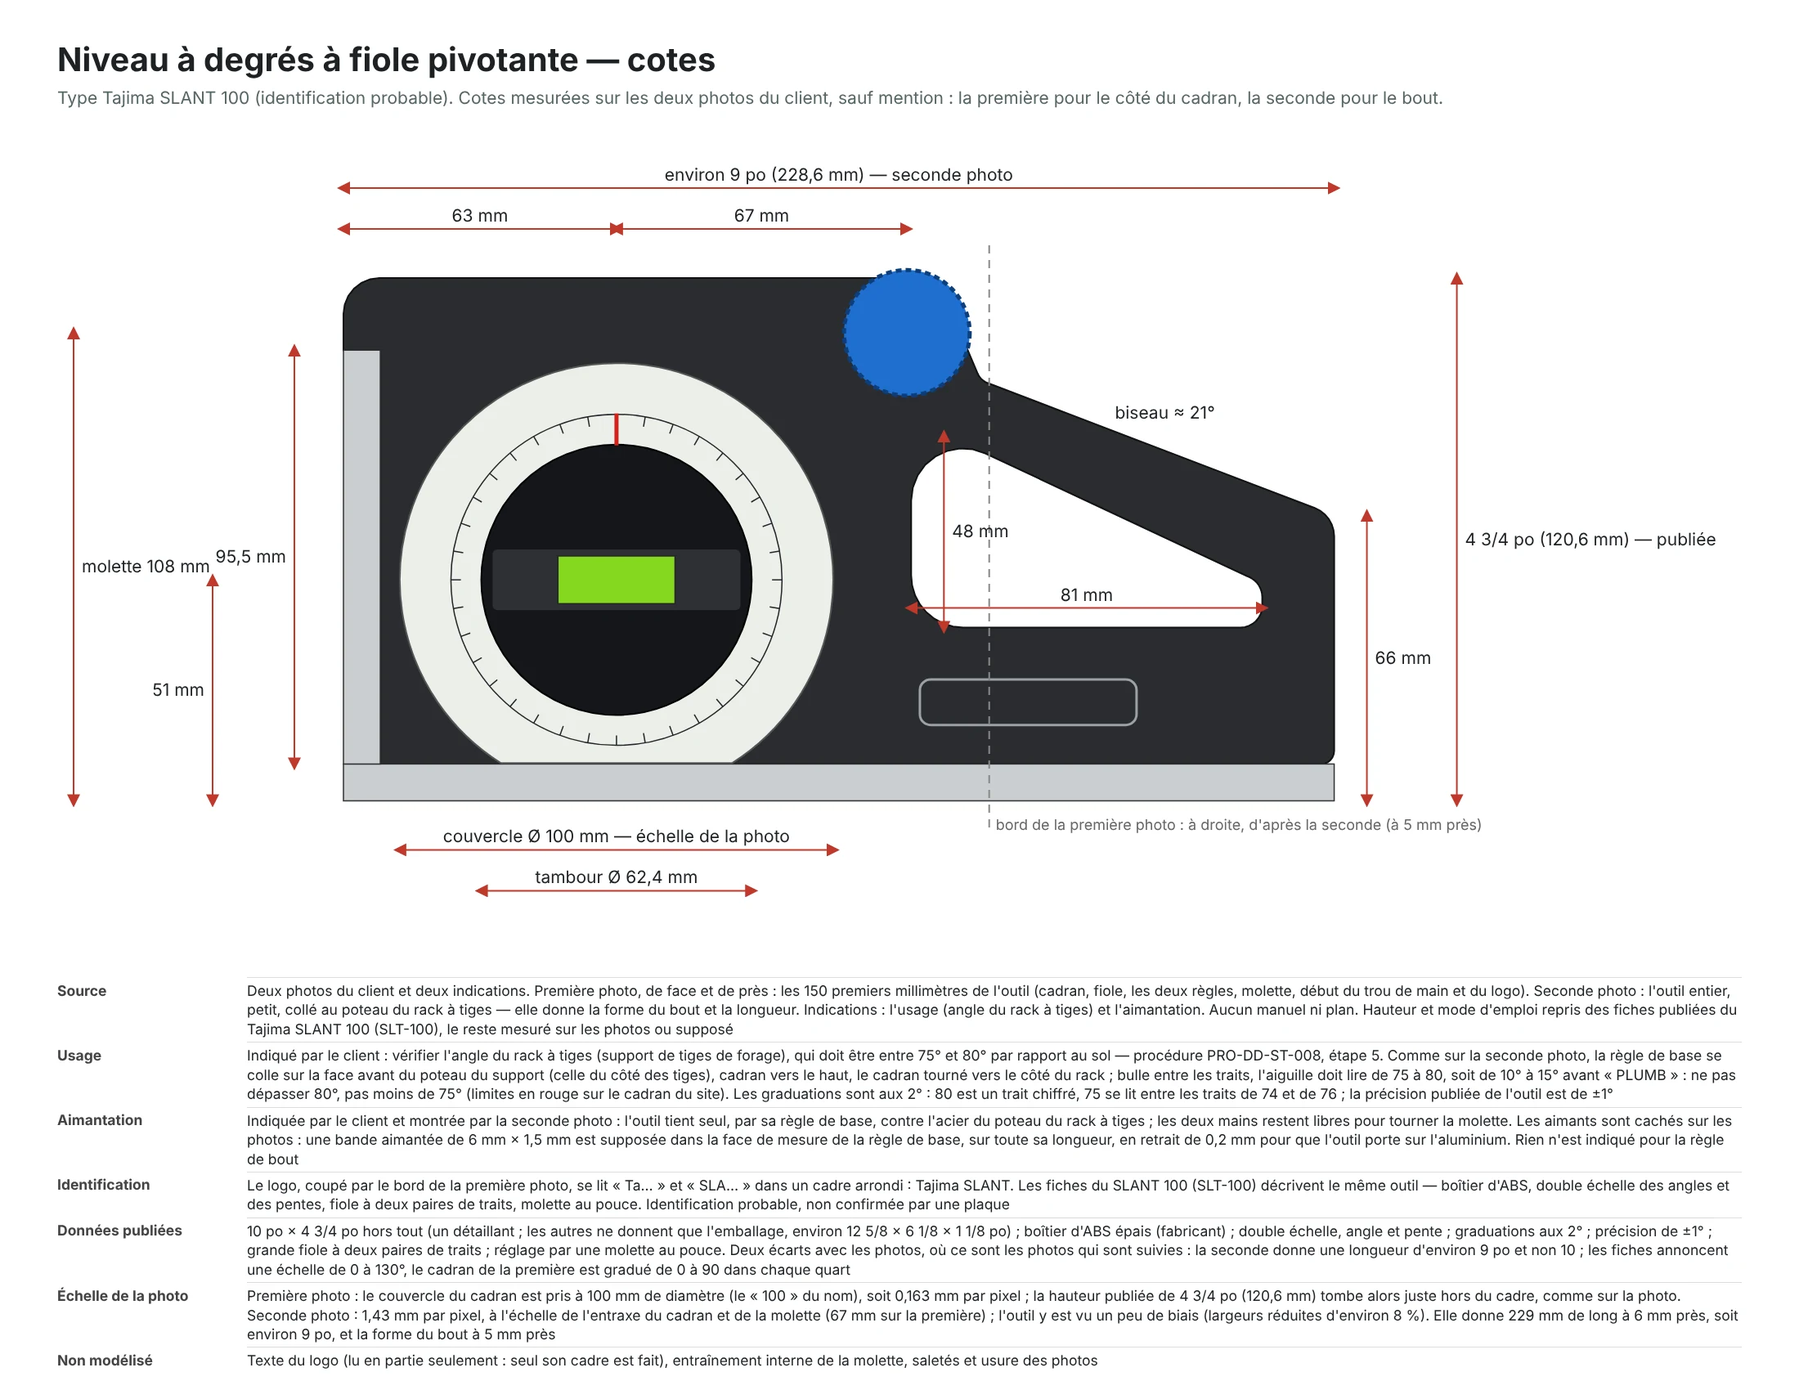
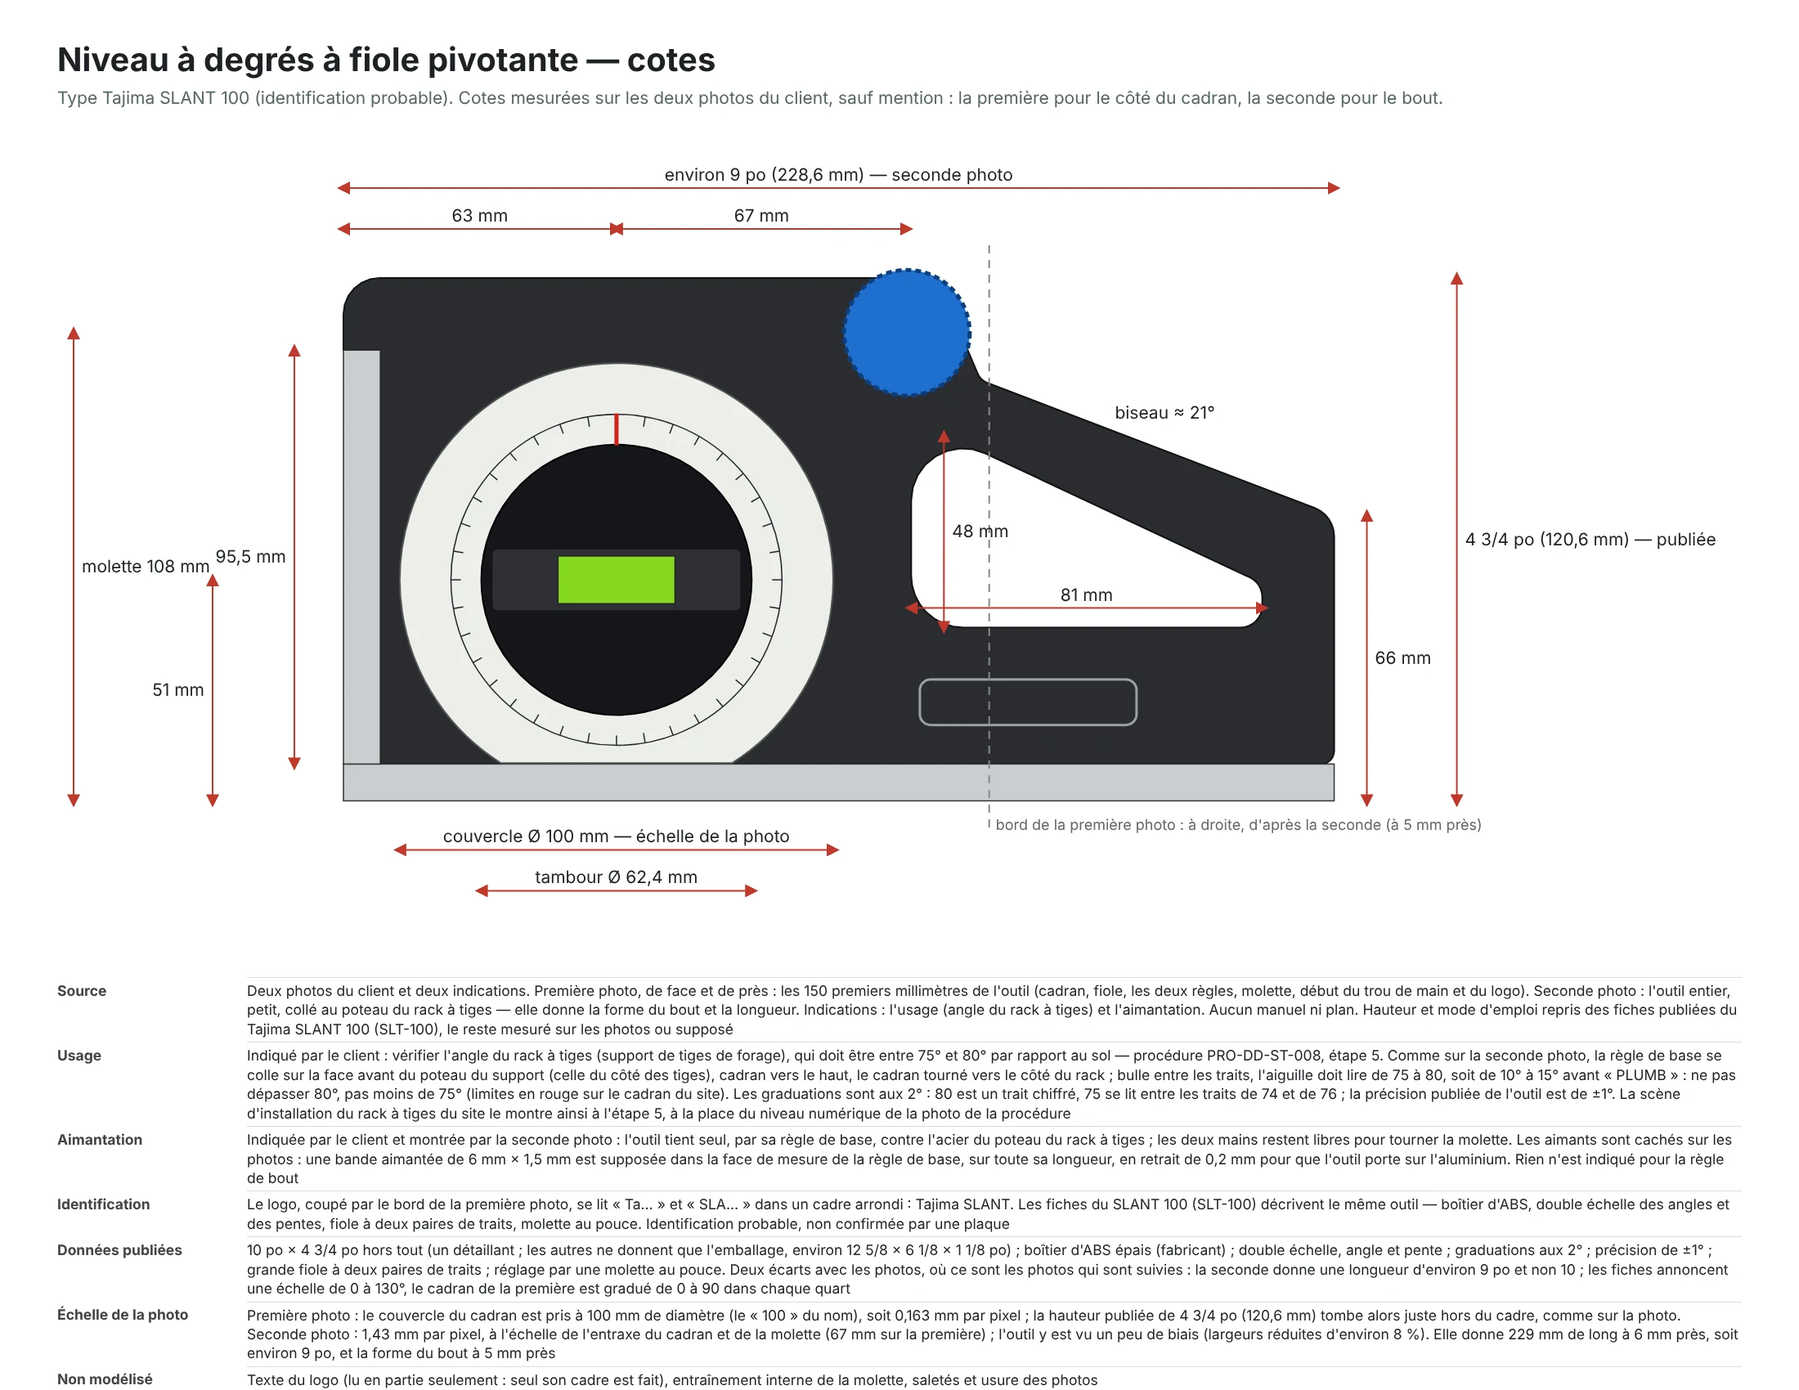
Rack à tiges, étape 5 : le niveau à degrés aimanté collé au poteau, comme sur la photo du client
Choix du client : à l'étape 5 de l'installation (« Vérifier l'angle »), le
niveau à degrés de l'équipement « niveau-a-degres » remplace le niveau
numérique de la photo de la procédure. Il est collé par sa règle de base sur
la face avant du poteau de gauche, cadran vers le haut et tourné vers
l'extérieur du support, à 20 cm sous le crochet de la chaîne de retenue,
comme sur la photo ; son tambour est réglé pour que la fiole soit de niveau
et son aiguille lit les 78° du support.

L'étape se regarde donc du côté gauche, le mur à gauche de l'image : caméra,
zones verte et rouges, rayons et étiquettes d'angle passés de ce côté ; zones
et rayons arrêtés sous l'outil ; étiquette « Niveau aimanté, collé au
poteau ». Le niveau numérique et son afficheur sont retirés de reperes.js.

Niveau à degrés : outil() rend l'outil entier d'une seule pièce et niveler()
le met de niveau une fois posé (tambour, molette, bulle), en retournant
l'angle lu ; P01 passe par la même liste de pièces.

Contrôle : scripts/check-rack.mjs vérifie l'angle lu par le niveau (78,00°,
dans la plage de 75° à 80°). Fiches et README des deux équipements.

La vidéo de la procédure du rack montre encore le niveau numérique.

Claude-Session: https://claude.ai/code/session_015N4WsssJZ8LhHWCi7yY3si

Changed region(s): [[0.1236, 0.7794, 0.9582, 0.9976], [0.0309, 0.7794, 0.0927, 0.9976]]

diff --git a/src/models/rack-tiges-dd/installation.js b/src/models/rack-tiges-dd/installation.js
@@ -14,7 +14,8 @@
 import { IN, T2, T15, T25, NQ, SIDE, CLEAR, SPLIT, XP, H_TOP, H_LOW, WALL, FRONT, ANGLE, TILT, SIN, COS, LIFT, W, HOOK, LUG, CHAIN, chainAlong } from './support.js';
 import { WALL_Z, FT5, rockAt, solAt, fromDeck, decor, place, DECK, SEC, DRILL } from './chantier.js';
 import { HOLE, BOLT, LEVER, TENDEUR, eyeBolt, hole, binder, hammerDrill, tournevis } from './outils.js';
-import { cote, pointille, arc, rayon, secteur, fleche, bande, niveau, polar } from './reperes.js';
+import { cote, pointille, arc, rayon, secteur, fleche, bande, polar } from './reperes.js';
+import { outil as niveauDegres, niveler } from '../niveau-a-degres/index.js';
 import { travailleur } from './travailleur.js';
 
 const ROCK_EYE = rockAt(0, FT5); // face de la roche au trou
@@ -67,6 +68,10 @@ const PIED = [LIFT, 0]; // [y, z] du pied du support (sommet de l'angle du suppo
 // Chaîne de retenue : point bas au centre quand elle est lâche (5 pi 2 po) ; sa longueur, l'avance
 // du paquet qu'elle permet et l'angle où elle l'arrête sont calculés à la construction (P02).
 export const RETENUE = { low: 62 * IN, longueur: 0, avance: 0, arret: 0 };
+// Niveau à degrés de l'étape 5 : bout du cadran à 20 cm sous le crochet de la chaîne de retenue, le long du poteau
+// (photo du client) ; angle lu sous son aiguille une fois la fiole de niveau, calculé à la construction (P02).
+const NIVEAU_SOUS_CROCHET = 0.2;
+export const NIVEAU = { lu: 0 };
 
 export function P02(api) {
   const S = api.S;
@@ -193,17 +198,27 @@ export function P02(api) {
   } };
 
   // --------------------------------------------- étape 5 : vérifier l'angle
-  // Niveau numérique sur le poteau (photo de la procédure) ; au pied du poteau,
-  // zone permise de 75° à 80° en vert, trop couché et trop debout en rouge.
-  const lev = niveau(S, `${ANGLE.toFixed(1)}°`);
-  lev.rotation.x = -TILT;
-  guide(S.at(lev, W(XP, 1.36, T2 / 2 + 0.0005)), [5]);
-  const xg = XP + 0.1;
+  // Niveau à degrés aimanté (équipement « niveau-a-degres »), collé au poteau comme sur la photo
+  // du client : règle de base contre la face avant du poteau de gauche, cadran vers le haut et
+  // tourné vers l'extérieur du support, un peu sous le crochet de la chaîne de retenue. Il
+  // remplace le niveau numérique de la photo de la procédure (choix du client). Le tambour est
+  // réglé pour que la fiole soit de niveau : l'aiguille lit l'angle du support. Au pied du
+  // poteau, zone permise de 75° à 80° en vert, trop couché et trop debout en rouge.
+  const lev = niveauDegres(S);
+  const V = (x, y, z) => new api.THREE.Vector3(x, y, z);
+  // Repère de l'outil → repère du support : x vers le bas du poteau, y vers les tiges, z vers l'extérieur (−X) ; puis le support incliné.
+  lev.quaternion.setFromRotationMatrix(new api.THREE.Matrix4().makeBasis(V(0, -1, 0), V(0, 0, 1), V(-1, 0, 0)))
+    .premultiply(new api.THREE.Quaternion().setFromAxisAngle(V(1, 0, 0), -TILT));
+  lev.position.set(...W(-XP, HOOK - NIVEAU_SOUS_CROCHET, T2 / 2 + 0.0005));
+  guide(lev, [5]);
+  NIVEAU.lu = niveler(lev);
+  const xg = -XP - 0.1; // repères d'angle du côté du niveau (à gauche du support, face au mur)
   guide(S.group(
-    secteur(S, xg, PIED, 0.3, 1.15, 62, 75, { material: 'zoneRouge' }),
-    secteur(S, xg, PIED, 0.3, 1.3, 75, 80),
-    secteur(S, xg, PIED, 0.3, 1.15, 80, 90, { material: 'zoneRouge' }),
-    rayon(S, xg, PIED, 1.36, 75, { material: 'repereVert' }), rayon(S, xg, PIED, 1.36, 80, { material: 'repereVert' }),
+    // Zones et rayons arrêtés sous le niveau, collé au poteau à partir de 1,36 m.
+    secteur(S, xg, PIED, 0.3, 1.05, 62, 75, { material: 'zoneRouge' }),
+    secteur(S, xg, PIED, 0.3, 1.16, 75, 80),
+    secteur(S, xg, PIED, 0.3, 1.05, 80, 90, { material: 'zoneRouge' }),
+    rayon(S, xg, PIED, 1.2, 75, { material: 'repereVert' }), rayon(S, xg, PIED, 1.2, 80, { material: 'repereVert' }),
     rayon(S, xg, PIED, 0.85, 0), arc(S, xg, PIED, 0.55, 0, ANGLE),
   ), [5]);
 
@@ -455,7 +470,7 @@ const CAM = {
   site: { pos: [1.6, 2.6, 3.2], tgt: [-0.9, 0.6, 0.5] },
   wall: { pos: [-1.3, 1.7, 1.3], tgt: [-0.05, 1.3, WALL_Z] },
   bolt: { pos: [0.75, 1.65, -0.2], tgt: [0, FT5, WALL_Z] },
-  side: { pos: [3.4, 1.2, -0.2], tgt: [0.8, 1.05, -0.35] },
+  side: { pos: [-3.1, 1.3, -0.1], tgt: [-0.8, 1.12, -0.33] }, // du côté gauche : le mur à gauche de l'image, le cadran du niveau de face (photo du client) ; le front de taille est à x ≈ −3,5
   anchor: { pos: [0.9, 2.5, 0.9], tgt: [0, 1.85, -0.65] },
   top: { pos: [0.3, 5.2, 1.3], tgt: [0, 2.6, -0.3] },
   front: { pos: [-1.6, 1.75, 2.5], tgt: [0, 1.45, 0.2] },
@@ -494,9 +509,10 @@ const NOTES = [
   { steps: [3], tag: '+coupe', pos: [0.03, FT5 - 0.07, ROCK_EYE - (HOLE + BOLT.in) / 2], text: 'Pas jusqu’au fond', kind: 'no' },
   { steps: [3], tag: 'boulon', pos: [0, FT5 + 0.24, EYE[2]], text: 'Pas jusqu’au fond du trou' },
   { steps: [4], tag: 'appui', pos: [0, ARM_END[1] + 0.02, WALL_Z + 0.06], text: 'Pattes du haut bien appuyées au mur', kind: 'ok' },
-  { steps: [5], pos: polar(XP + 0.1, PIED, 0.7, 40), text: `${ANGLE}°` },
-  { steps: [5], pos: polar(XP + 0.1, PIED, 1.46, 73.2), text: '75°', kind: 'ok' },
-  { steps: [5], pos: polar(XP + 0.1, PIED, 1.46, 81.8), text: '80°', kind: 'ok' },
+  { steps: [5], pos: polar(-XP - 0.1, PIED, 0.7, 40), text: `${ANGLE}°` },
+  { steps: [5], pos: polar(-XP - 0.1, PIED, 1.26, 72.4), text: '75°', kind: 'ok' },
+  { steps: [5], pos: polar(-XP - 0.1, PIED, 1.26, 82.6), text: '80°', kind: 'ok' },
+  { steps: [5], pos: W(-XP - 0.02, HOOK - NIVEAU_SOUS_CROCHET + 0.1, T2 / 2 + 0.26), text: 'Niveau aimanté, collé au poteau' },
   { steps: [6], pos: [0, FT5 + 0.26, EYE[2]], text: 'Jusqu’au milieu de la chaîne' },
   { steps: [7], tag: 'oeilD', pos: [XP + 0.2, W(0, LUG, 0)[1] + 0.2, W(0, LUG, -0.08)[2]], text: "De l'extérieur vers l'intérieur" },
   { steps: [7], tag: 'oeilG', pos: [-XP - 0.2, W(0, LUG, 0)[1] + 0.2, W(0, LUG, -0.08)[2]], text: "De l'extérieur vers l'intérieur" },

diff --git a/src/models/niveau-a-degres/index.js b/src/models/niveau-a-degres/index.js
@@ -27,7 +27,9 @@
 // L'outil fonctionne (src/ui/features/niveau-degres.js) : regler() pose
 // l'outil sur une pente, tourne le tambour et la molette ; bulle() donne la
 // place de la bulle dans la fiole ; lecture() l'angle sous l'aiguille ;
-// verdictRack() dit si l'angle lu convient au rack à tiges.
+// verdictRack() dit si l'angle lu convient au rack à tiges. outil() et niveler()
+// posent l'outil entier dans une autre scène : l'étape 5 de l'installation du
+// rack à tiges (src/models/rack-tiges-dd/installation.js), collé au poteau.
 //
 // Repère de l'outil, en millimètres : x le long de la règle de base (0 au bout
 // du cadran), y vers le haut (0 sous la face de mesure), z en travers (0 au
@@ -539,27 +541,69 @@ export function regler(racine, { pente = 0, cadran = 0 } = {}) {
 
 // ------------------------------------------------------------------ assemblage
 
-export function P01(api) {
-  const S = api.S;
+/**
+ * Pièces de l'outil, à leur place : [{ ref, obj, eclate, options }] — repère de la liste, objet,
+ * déplacement en vue éclatée (m), options d'api.part. Les pièces mobiles portent userData.mobile.
+ */
+function pieces(S) {
   const c = CADRAN;
   const mobile = (o, nom) => { o.userData.mobile = nom; return o; };
   const auCadran = (o, z) => { o.position.set(c.x * MM, c.y * MM, z * MM); return o; };
-  api.part('1', boitier(S), [0, 0, 0]);
-  api.part('2', regleBase(S), [0, -0.03, 0]);
-  api.part('3', regleBout(S), [-0.03, 0, 0]);
-  api.part('9', aimant(S), [0, -0.055, 0]);
   // Pièces concentriques : les bulles de repère sont écartées du milieu, où se lit la bulle de la fiole.
   const pol = (r, a, z) => ({ labelAt: P(r * Math.cos(a * RAD), r * Math.sin(a * RAD), z) });
-  // Le cadran est sous le couvercle : sa bulle de repère se tient juste au-dessus de la glace, sans quoi elle serait masquée.
-  api.part('4', auCadran(cadran(S), ZF + c.epPlaque / 2), [0, 0, 0.03], pol(43, 135, c.couvercle.jour + c.couvercle.ep + 0.3 - c.epPlaque / 2));
-  api.part('5', auCadran(couvercle(S), ZF), [0, 0, 0.095], pol(c.rCouvercle - 2, 35, c.couvercle.jour + c.couvercle.ep));
-  api.part('6', mobile(auCadran(tambour(S), ZF), 'tambour'), [0, 0, 0.06], pol((TAMBOUR.rExt + TAMBOUR.rInt) / 2, -90, TAMBOUR.saillie));
-  api.part('7', mobile(auCadran(fiole(S), ZV), 'fiole'), [0, 0, 0.14], pol(21, 0, FIOLE.embout.d / 2));
   const m = molette(S);
   m.position.set(MOLETTE.x * MM, MOLETTE.y * MM, ZF * MM);
-  api.part('8', mobile(m, 'molette'), [0, 0.02, 0.05]);
+  return [
+    { ref: '1', obj: boitier(S), eclate: [0, 0, 0] },
+    { ref: '2', obj: regleBase(S), eclate: [0, -0.03, 0] },
+    { ref: '3', obj: regleBout(S), eclate: [-0.03, 0, 0] },
+    { ref: '9', obj: aimant(S), eclate: [0, -0.055, 0] },
+    // Le cadran est sous le couvercle : sa bulle de repère se tient juste au-dessus de la glace, sans quoi elle serait masquée.
+    { ref: '4', obj: auCadran(cadran(S), ZF + c.epPlaque / 2), eclate: [0, 0, 0.03], options: pol(43, 135, c.couvercle.jour + c.couvercle.ep + 0.3 - c.epPlaque / 2) },
+    { ref: '5', obj: auCadran(couvercle(S), ZF), eclate: [0, 0, 0.095], options: pol(c.rCouvercle - 2, 35, c.couvercle.jour + c.couvercle.ep) },
+    { ref: '6', obj: mobile(auCadran(tambour(S), ZF), 'tambour'), eclate: [0, 0, 0.06], options: pol((TAMBOUR.rExt + TAMBOUR.rInt) / 2, -90, TAMBOUR.saillie) },
+    { ref: '7', obj: mobile(auCadran(fiole(S), ZV), 'fiole'), eclate: [0, 0, 0.14], options: pol(21, 0, FIOLE.embout.d / 2) },
+    { ref: '8', obj: mobile(m, 'molette'), eclate: [0, 0.02, 0.05] },
+  ];
+}
+
+export function P01(api) {
+  for (const p of pieces(api.S)) api.part(p.ref, p.obj, p.eclate, p.options);
   // Coupe proposée : en travers, par l'axe du cadran (boîtier, tambour, fiole, couvercle).
-  return { view: { dir: [0.35, 0.3, 1], section: { axis: 'x', pos: c.x / L } } };
+  return { view: { dir: [0.35, 0.3, 1], section: { axis: 'x', pos: CADRAN.x / L } } };
+}
+
+/**
+ * L'outil entier en un seul objet, pour le poser dans une autre scène (étape 5 de
+ * l'installation du rack à tiges) : repère de l'outil, en mètres — x le long de la règle de
+ * base depuis le bout du cadran, y depuis la face de mesure, z vers la face du cadran, origine
+ * au coin de la face de mesure, au milieu de l'épaisseur.
+ *
+ * Une fois l'objet posé (position, orientation), niveler(objet) tourne le tambour pour que la
+ * fiole soit de niveau dans la scène, entraîne la molette, centre la bulle, et retourne l'angle
+ * lu sous l'aiguille (degrés) : celui de la surface qui porte la règle de base.
+ */
+export function outil(S) {
+  const g = S.group();
+  for (const p of pieces(S)) g.add(p.obj);
+  return g;
+}
+
+export function niveler(objet) {
+  objet.updateMatrixWorld(true);
+  const e = objet.matrixWorld.elements;
+  // Composantes verticales (Y de la scène) des axes x, y, z de l'outil : la verticale dans son repère.
+  const n = [Math.hypot(e[0], e[1], e[2]), Math.hypot(e[4], e[5], e[6]), Math.hypot(e[8], e[9], e[10])];
+  const haut = [e[1] / n[0], e[5] / n[1], e[9] / n[2]];
+  // Fiole de niveau : sa direction cos(c)·x + sin(c)·y n'a plus de composante verticale.
+  const cadran = Math.atan2(-haut[0], haut[1]) / RAD;
+  const m = mobiles(objet);
+  m.tambour.rotation.z = cadran * RAD;
+  m.fiole.rotation.z = cadran * RAD;
+  m.molette.rotation.z = -cadran * RAD * RAPPORT;
+  placerBulle(m.bulle, bulle(haut, cadran));
+  objet.updateMatrixWorld(true);
+  return lecture(cadran).deg;
 }
 
 export default { P01 };

diff --git a/src/models/rack-tiges-dd/reperes.js b/src/models/rack-tiges-dd/reperes.js
@@ -1,9 +1,9 @@
 // Repères de mesure et d'angle du montage par étapes (cotes, arcs, zones
-// permises, limites, flèches), et le niveau numérique de l'étape 5. Les
+// permises, limites, flèches). Le niveau de l'étape 5 est celui de l'équipement
+// « niveau-a-degres » (src/models/niveau-a-degres). Les
 // couleurs disent toujours la même chose : orange = mesure, vert = permis,
 // rouge = limite ou interdit, bleu = sens du geste.
 import * as THREE from 'three';
-import { mat } from '../../viewer/materials.js';
 
 const rad = (deg) => (deg * Math.PI) / 180;
 
@@ -68,50 +68,4 @@ export function fleche(S, a, b, { material = 'blue', r = 0.01, head = 0.11 } = {
 /** Bande d'une couleur autour d'un profilé carré de côté a (repère de hauteur sur un poteau), de hauteur h. */
 export function bande(S, a, h, material = 'repereVert') {
   return S.box(a + 0.004, h, a + 0.004, material);
-}
-
-/** Afficheur à cristaux liquides : texte clair sur une texture (navigateur seulement). */
-function afficheur(texte) {
-  if (typeof document === 'undefined') return 'lightGrey';
-  const c = document.createElement('canvas');
-  c.width = 256;
-  c.height = 128;
-  const g = c.getContext('2d');
-  g.fillStyle = '#b6d6b0';
-  g.fillRect(0, 0, 256, 128);
-  g.fillStyle = '#16261a';
-  g.font = '700 86px "IBM Plex Mono", "DejaVu Sans Mono", monospace';
-  g.textAlign = 'center';
-  g.textBaseline = 'middle';
-  g.fillText(texte, 128, 70);
-  const t = new THREE.CanvasTexture(c);
-  t.colorSpace = THREE.SRGBColorSpace;
-  return new THREE.MeshBasicMaterial({ map: t });
-}
-
-/**
- * Niveau numérique (photo de l'étape 5 de la procédure) : boîtier noir,
- * façade bleue, afficheur, deux fioles vertes. Long de 25 cm selon Y ; son
- * chant de mesure est dans le plan Z = 0 (posé contre le poteau), le boîtier
- * s'étend vers +Z et l'afficheur regarde vers +X, lecture le long du niveau.
- */
-export function niveau(S, texte = '78.0°') {
-  const L = 0.25, w = 0.058, t = 0.024;
-  const g = S.group(
-    S.box(t, L, w, 'black', { r: 0.006, pos: [0, 0, w / 2] }),
-    // Semelle usinée (chant de mesure).
-    S.box(t * 0.8, L - 0.01, 0.005, 'lightGrey', { pos: [0, 0, 0.0025] }),
-    S.box(0.003, 0.115, w * 0.84, 'umBlue', { r: 0.001, pos: [t / 2 + 0.0015, 0, w / 2] }),
-  );
-  const ecran = new THREE.Mesh(new THREE.PlaneGeometry(0.062, 0.034), mat(afficheur(texte)));
-  ecran.rotation.set(0, Math.PI / 2, Math.PI / 2, 'YXZ'); // face vers +X, lecture le long du niveau (comme sur la photo)
-  ecran.position.set(t / 2 + 0.0035, 0, w / 2);
-  g.add(ecran);
-  for (const s of [-1, 1]) {
-    // Fioles vertes dans leur lucarne, boutons de la façade.
-    g.add(S.cyl(0.016, t + 0.002, 'darkSteel', { axis: 'x', pos: [0, s * 0.092, w / 2], seg: 20 }));
-    g.add(S.cyl(0.0085, t + 0.004, 'green', { axis: 'x', pos: [0, s * 0.092, w / 2], seg: 12 }));
-    for (const b of [-1, 1]) g.add(S.cyl(0.0045, 0.003, 'black', { axis: 'x', pos: [t / 2 + 0.004, s * 0.047, w / 2 + b * 0.011], seg: 12 }));
-  }
-  return g;
 }

diff --git a/src/models/rack-tiges-dd/index.js b/src/models/rack-tiges-dd/index.js
@@ -5,7 +5,8 @@
 // - installation.js : l'installation étape par étape (P02), d'après la
 //   procédure PRO-DD-ST-008 ; chantier.js (paroi de mine, plancher), outils.js
 //   (boulon à œil, tendeur, foreuse à percussion, tournevis), reperes.js (cotes,
-//   angles, zones, niveau numérique), travailleur.js (silhouette).
+//   angles, zones), travailleur.js (silhouette) ; à l'étape 5, le niveau à
+//   degrés aimanté de l'équipement « niveau-a-degres », collé au poteau.
 //
 // Contrôle chiffré contre la procédure : node scripts/check-rack.mjs
 import { P01, NQ } from './support.js';

diff --git a/README.md b/README.md
@@ -284,8 +284,12 @@ pièces (numéro, quantité, page du manuel).
     sa longueur), marques à 5 pi ;
   - `chantier.js` (paroi de roche grillagée et soutènement, plancher repris
     de `plancher-dd`), `outils.js` (boulon à œil, tendeur, foreuse à
-    percussion sans fil, tournevis), `reperes.js` (cotes, arcs, zones, niveau
-    numérique), `travailleur.js` (silhouette articulée : les mains et les
+    percussion sans fil, tournevis), `reperes.js` (cotes, arcs, zones),
+    le niveau à degrés aimanté de l'étape 5 (équipement `niveau-a-degres`,
+    `outil()` et `niveler()` : collé à la face avant du poteau de gauche,
+    cadran vers le haut, comme sur la photo du client, à la place du niveau
+    numérique de la photo de la procédure ; son aiguille lit les 78° du
+    support), `travailleur.js` (silhouette articulée : les mains et les
     pieds vont où on les pose, par cinématique inverse à deux segments ; le
     foreur tient la foreuse par ses deux poignées, les deux porteurs tiennent
     les poteaux, pieds en place ; à l'étape 14, une main tient le tournevis,
@@ -803,7 +807,9 @@ pièces (numéro, quantité, page du manuel).
   du site, absents de l'outil, masqués en vue éclatée et en coupe. Le panneau
   rappelle les deux limites en rouge et dit, bulle centrée, si l'angle lu est
   conforme, trop couché ou trop debout, avec un lien vers la procédure du
-  rack. La place de la bulle, la pose sur la pente, la lecture et le verdict
+  rack. Le même outil est posé dans la scène d'installation du rack à tiges
+  (`rack-tiges-dd`, étape 5), collé au poteau (`outil()`, `niveler()`). La
+  place de la bulle, la pose sur la pente, la lecture et le verdict
   sont dans le modèle (`bulle()`, `regler()`, `lecture()`, `verdictRack()` de
   `src/models/niveau-a-degres/index.js`), contrôlées par
   `scripts/check-niveau-degres.mjs` (`npm run check:niveau`). La fiche et la
